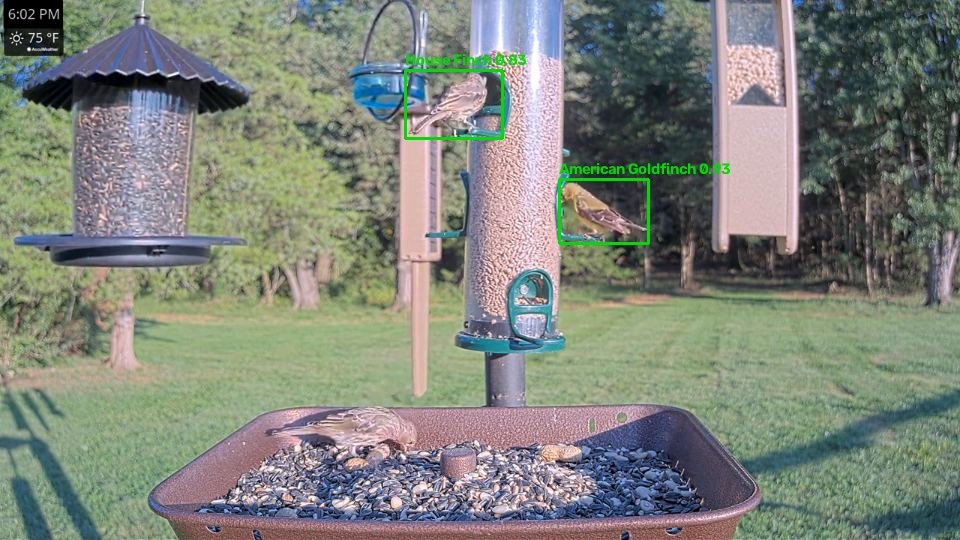
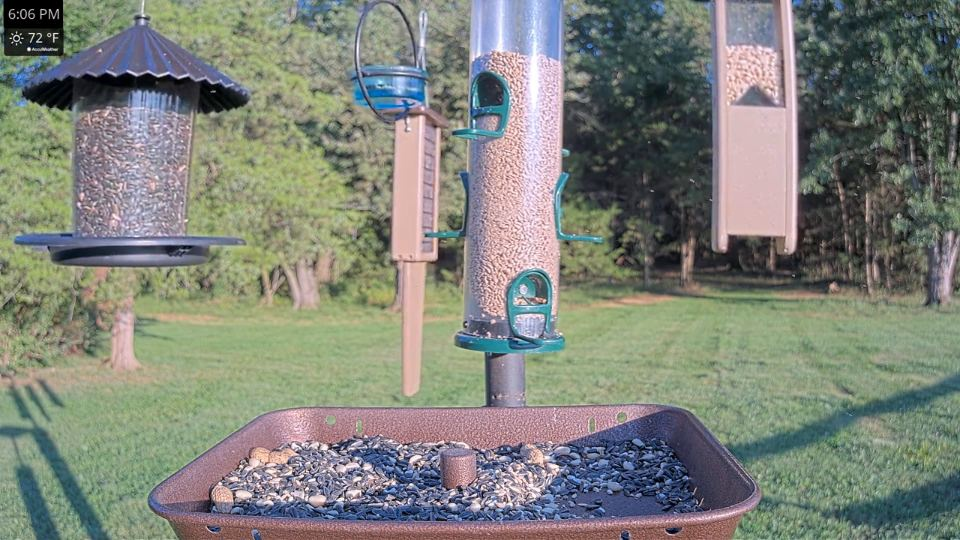
Higher-res processing (default 1080p) + square-padded crops
- Configurable PROCESS_HEIGHT (default 1080) — decode/crop at higher res so the
  classifier gets sharper, larger bird crops (~4x the pixels vs 720p). Format
  selection picks the best video at/under the target height.
- classifier: square-pad crops (replicate edges) + cubic resize — no aspect
  distortion, which the fine-grained model is sensitive to.

diff --git a/services/api/classifier.py b/services/api/classifier.py
@@ -30,6 +30,16 @@ def common_name(label: str) -> str:
 PRIOR_PENALTY = 0.05
 
 
+def _square_pad(img):
+    """Pad a crop to a square with replicated edge pixels (no stretching)."""
+    h, w = img.shape[:2]
+    if h == w:
+        return img
+    s = max(h, w)
+    top, left = (s - h) // 2, (s - w) // 2
+    return cv2.copyMakeBorder(img, top, s - h - top, left, s - w - left, cv2.BORDER_REPLICATE)
+
+
 class BirdClassifier:
     def __init__(self, model_path=DEFAULT_MODEL, labels_path=DEFAULT_LABELS):
         self.interp = Interpreter(model_path=str(model_path))
@@ -57,8 +67,11 @@ class BirdClassifier:
         """Return [(common_name, full_label, score), ...] best-first."""
         if bgr_crop.size == 0:
             return []
-        img = cv2.cvtColor(bgr_crop, cv2.COLOR_BGR2RGB)
-        img = cv2.resize(img, (self.w, self.h))
+        # Square-pad (replicate edges) so the bird isn't stretched to a square, then
+        # resize with cubic interpolation — preserves shape/proportions the model relies on.
+        crop = _square_pad(bgr_crop)
+        img = cv2.cvtColor(crop, cv2.COLOR_BGR2RGB)
+        img = cv2.resize(img, (self.w, self.h), interpolation=cv2.INTER_CUBIC)
         x = img.astype(self.inp["dtype"])
         if self.inp["dtype"] == np.float32:
             x = x / 127.5 - 1.0

diff --git a/services/api/app.py b/services/api/app.py
@@ -228,7 +228,8 @@ def resolve_stream_url(source: str) -> str:
     if source.startswith("rtsp://") or source.endswith(".m3u8") or Path(source).exists():
         return source
     out = subprocess.run(
-        [sys.executable, "-m", "yt_dlp", "-f", "232/231/230/best", "-g", source],
+        [sys.executable, "-m", "yt_dlp", "-f",
+         f"bestvideo[height<={FRAME_H}]/232/230/best", "-g", source],
         capture_output=True, text=True, check=True,
     )
     urls = [ln for ln in out.stdout.splitlines() if ln.strip()]
@@ -273,7 +274,13 @@ def finalize_track(tid, t):
                  seconds, t["frames"], t["image"] or "")
 
 
-FRAME_W, FRAME_H = 1280, 720
+# Processing resolution. 1080 is the sweet spot (≈4× the pixels on a bird vs 720,
+# still cheap); a close 4K feeder cam gives large, sharp crops even downscaled to this.
+# Bump to 1440/2160 to trade CPU for detail. Detection resizes internally, so this
+# mainly buys sharper classifier crops.
+PROCESS_HEIGHT = int(os.environ.get("PROCESS_HEIGHT", "1080"))
+FRAME_H = PROCESS_HEIGHT
+FRAME_W = (FRAME_H * 16 // 9 + 1) // 2 * 2  # 16:9, even width for bgr24
 
 
 def _start_ffmpeg():
